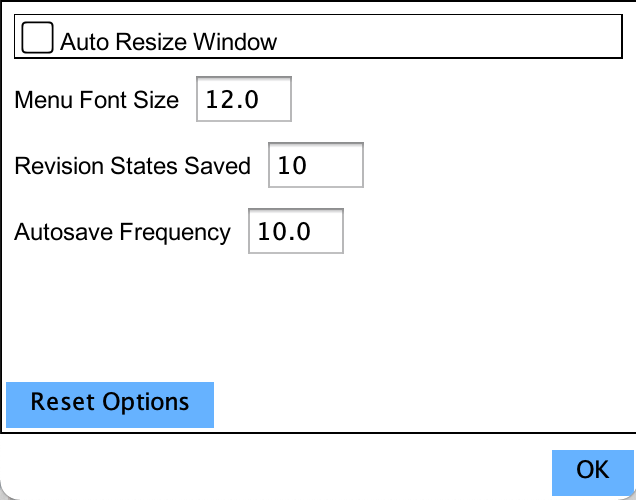
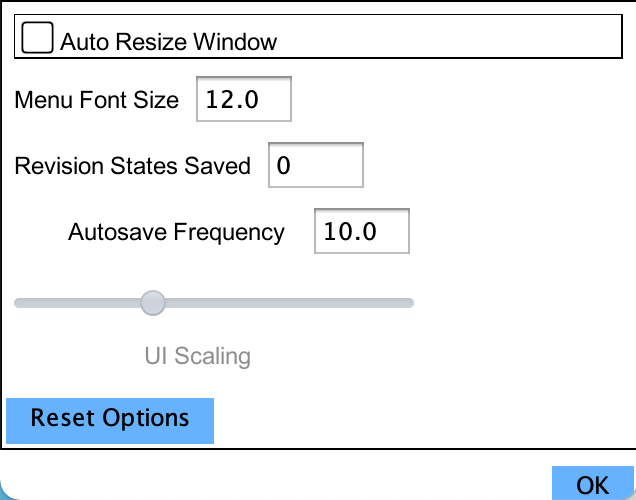
update to docs for 3.5.1 release

diff --git a/docs/readme.html b/docs/readme.html
@@ -27,7 +27,7 @@
         <!-- Static navbar -->
         <div class="navbar navbar-inverse navbar-static-top">
             <div class="container">
-                <div class="navbar-header"> <button type="button" class="navbar-toggle" data-toggle="collapse" data-target=".navbar-collapse"> <span class="icon-bar"></span> <span class="icon-bar"></span> <span class="icon-bar"></span> </button> <a class="navbar-brand" href="index.html">PolyGlot v 3.5</a> </div>
+                <div class="navbar-header"> <button type="button" class="navbar-toggle" data-toggle="collapse" data-target=".navbar-collapse"> <span class="icon-bar"></span> <span class="icon-bar"></span> <span class="icon-bar"></span> </button> <a class="navbar-brand" href="index.html">PolyGlot v 3.5.1</a> </div>
                 <div class="navbar-collapse collapse">
                     <ul class="nav navbar-nav navbar-right">
                         <li><a href="https://github.com/DraqueT/PolyGlot">GitHub Page</a><br>
@@ -49,7 +49,7 @@
             <div class="container">
                 <div class="row">
                     <div class="col-lg-10 col-lg-offset-1 centered"> <img src="assets/PolyGlot%20Logo.png" alt="PolyGlot">
-                        <h1>Version 3.5</h1>
+                        <h1>Version 3.5.1</h1>
                         <!-- POLYGLOT STUFF START -->
 
                         <table style="width:100%">
@@ -108,54 +108,21 @@
                             post them on <a href="https://github.com/DraqueT/PolyGlot/issues">PolyGlot's issues page</a>!</div>
 
                         <h1><a name="-----_ii_-----"></a>WHAT’S NEW</h1>
-                        <div align ="left"><br>Heyo, all! Welcome to version 3.5 of PolyGlot! This is a <b>massive</b> release! First, 
-                            I want to give a huge shout out to TrapinchO over on GitHub, who gave an enormous amount of help with 
-                            testing, and just has killer ideas in general! 3.5 includes a long list of upgrades and
-                            bug fixes. This also represents a significant step toward an Android release of PolyGlot, which has been 
-                            much requested and a long time coming.<br><br>
-                            
-                            Among the most exciting upgrades are the complete integration of the Zompist word generator (algorithm
-                            and original design by Mark Rosenfelder there), a complete overhaul of how graphics are painted (no
-                            more CPU fans going nuts), a revamped lexicon look (local language synonyms now displayed in the list
-                            by their conword counterparts), automatic syllable composition when generating pronunciations, and many, 
-                            <i>many</i> quality of life improvements (full list below). And that is on top of a ton of bug fixes!<br><br>
-                            
-                            Please enjoy, everyone!
+                        <div align ="left"><br>Minor release here that cleans up a few things from the last big release and adds a few 
+                            features I had wanted to include with 3.5 in the first place.<br><br>
+
+                            Enjoy, everyone!
                             <br><br>
 
                         </div>
                         NEW FEATURES:
                         <div align ="left"><ul>
-                                <li>Full integration of the Zompist Word Generator</li>
-                                <li>Automatic syllable composition in pronunciation</li>
-                                <li>Word form constructor tool added for greater ease with agglutinative languages</li>
-                                <li>PolyGlot can now import local language fonts as with conlang fonts.</li>
-                                <li>Push updates to mass autodeclension rules updated</li>
-                                <li>Delete audio recording button added to grammar section</li>
-                                <li>Packer/unpacker feature added for advanced users</li>
-                                <li>Alphabetic Order feature reworked</li>
-                                <li>Open Ticket menu item added</li>
-                                <li>Regex now supported in language filter</li>
-                                <li>Relational word classes added to PolyGlot</li>
-                                <li>Phrase Book window added - compatible with print to PDF</li>
-                                <li>Lexicon now defaults to show both Conword and local word equivalent</li>
-                                <li>PDF Chapters can now be reordered</li>
-                                <li>Text fields and dropdowns upgraded to show labels more clearly</li>
-                                <li>PolyGlot update detection now based on more stable host</li>
-                                <li>Autosave feature added - every 5 minutes (can be changed in options)</li>
-                                <li>Deprecated conjugation rules now given more helpful names</li>
-                                <li>Dropdown menus with Conlang words now have hover text and the local word appearing next to them</li>
-                                <li>Check Language upgrade - checks for ambiguities in alphabet and for unsupported characters in lexicon</li>
-                                <li>PDF printing now accepts/uses local language font</li>
-                                <li>If present, romanized forms of words will export to Excel</li>
-                                <li>Tooltips now automatically format in a way that is much nicer to look at</li>
-                                <li>Font compatibility in PDF printing significantly improved</li>
-                                <li>Reworked printing of word class values to PDF </li>
-                                <li>Upgraded combobox displays</li>
-                                <li>Dropdowns now filter as you begin to type</li>
-                                <li>BIG update to core functionality to allow for development of Android app</li>
-                                <li>Upgraded to Java 17 - Long Term Home for PolyGlot (no more upgrdes for a good bit)</li>
-                                <li>New easter egg added. :3</li>
+                                <li>Java 8 no longer needed for Excel features and PDF generation</li>
+                                <li>Revised invalid entry display in some menus</li>
+                                <li>Added ability to scale UI in Windows and Linux</li>
+                                <li>Word generator now compatible with comma delimited lists to allow for multi symbol characters</li>
+                                <li>Word generator now has visual feedback to help with input formatting</li>
+                                <li>Word generator now saves settings rather than discarding on close of window</li>
                                 <!––Secret Codes:
                                 what did you see last tuesday
                                 Who is Draque
@@ -169,29 +136,12 @@
                         BUGS FIXED:
                         <div align="left">
                             <ul>
-                                <li>Ligatures loaded initially, but failed to re-load from saved PolyGlot archive</li>
-                                <li>Broken multi-delete in conjugations menu fixed</li>
-                                <li>Graphical artifacting and "shadows" appeared sometimes in etymology window</li>
-                                <li>Broken multi-delete in conjugations menu fixed</li>
-                                <li>Excel import bugs corrected (false success report)</li>
-                                <li>Quickentry image insertion caused PolyGlot to freeze</li>
-                                <li>Quiz could make copies of the correct answer (with copies being "wrong")</li>
-                                <li>Local languge sizing failed to function properly in menus</li>
-                                <li>IPA Conversion tool converted text with HTML interspersed</li>
-                                <li>If no alphabet is defined at all, "check language" feature crashes program</li>
-                                <li>Under certain circumstances, text boxes could be mistakenly set to the conlang font</li>
-                                <li>Search menu populates font and size options from wrong place</li>
-                                <li>Hitting the filter button while is already applied did nothing</li>
-                                <li>Deletion of top level etymological parent caused unhandled exception</li>
-                                <li>Excel export applied conjugation transforms without regard to rules</li>
-                                <li>Excel export did not properly set conlang font on conjugated wordform cells</li>
-                                <li>Excel export sometimes printed empty tabs</li>
-                                <li>Deleting an internal etymological parent resized elements of the etymology window</li>
-                                <li>If you had too many word classes, it would break the autodeclension setup menu</li>
-                                <li>Deleting an entry in the phonemic orthography menu would also delete any entries with the same values</li>
-                                <li>Elements of the conjugation menu were failing to render in the appropriate font</li>
-                                <li>The grammar chapter section could become persistently wonky if multiple chapters without names were added in a row</li>
-                                <li>Fixed menus that could display user text but which did not use local language font (possible tofu characters)</li>
+                                <li>Tooltips were severely broken on Windows/Linux, not functioning at all</li>
+                                <li>Under certain circumstances, add part of speech button could become temporarily disabled</li>
+                                <li>UI scaling in HD environments was broken</li>
+                                <li>Part of Speech mandatory can no longer be set if none are defined</li>
+                                <li>Import menu was not static</li>
+                                <li>Error message occasionally/popped on startup for null ConWord value</li>
                             </ul>
                         </div>
 
@@ -200,14 +150,14 @@
                         <h1>INSTALLATION</h1><br>
                         <div align ="left">As of version 3.0, the installation of PolyGlot has become mostly automated. Simply 
                             download the appropriate installer for your operating system (Windows: exe, Linux: deb, macOS:dmg) and open 
-                            to install! PolyGlot no longer has a frontend, and to run the base program, there is no need to install 
-                            Java at all (although for some features, a java runtime may be required).<br><br>
+                            to install!<br><br>
                             
                             <i>Windows Note</i>: Windows will complain bitterly about PolyGlot not being properly registered with Microsoft. 
                             It is safe to install, but registration costs money and PolyGlot is free.<br><br>
                         
-                            <i>macOS Note</i>: On the initial run, you will have to right click th Application from Finder, select "open" and grant it permission to run, 
-                            despite not being registered with Apple. It is safe to run, but registration costs money and PolyGlot is free.
+                            <i>macOS Note</i>: On the initial run, you will have to right click th Application from Finder, select "open" and grant it permission to run. It is safe to run, but registration costs money and PolyGlot is free.<br><br>
+                            
+                            <i>Linux Note:</i>: Depending on screen resolution, you may have to tweak the UI scaling setting under options for the display to render at an appropriate size.
                         </div>
                         <br><br>
 
@@ -1128,7 +1078,11 @@
                             Note that autosaves will not affect the revision points feature in PolyGlot that are typically created each save.<br><br>
 
                             The <b>Reset Options</b> button allows you to reset all option data within PolyGlot. This <i>includes</i> data which is
-                            not typically visible, such as window position, window sizes, and prior files opened.
+                            not typically visible, such as window position, window sizes, and prior files opened.<br><br>
+                            
+                            <b>UI Scaling</b> controls the size of PolyGlot's overall screens. This can be useful as a setting if you are having trouble
+                            seeing the menus or if your OS has improperly scaled it for your screen resolution. Default value is a scale of 2, and can be
+                            set from 1 to 4.
                         </div>
 
 

diff --git a/docs/index.html b/docs/index.html
@@ -22,9 +22,9 @@
 
 
         <ul>
-          <li><a href="https://github.com/DraqueT/PolyGlot/releases/download/3.5/PolyGlot-Ins-Win.exe">Download<strong>for Windows</strong></a></li>
-          <li><a href="https://github.com/DraqueT/PolyGlot/releases/download/3.5/PolyGlot-Ins-Osx.dmg">Download<strong>for macOS</strong></a></li>
-          <li><a href="https://github.com/DraqueT/PolyGlot/releases/download/3.5/PolyGlot-Ins-Lin.deb">Download<strong>for Linux</strong></a></li>
+          <li><a href="https://github.com/DraqueT/PolyGlot/releases/download/3.5.1/PolyGlot-Ins-Win.exe">Download<strong>for Windows</strong></a></li>
+          <li><a href="https://github.com/DraqueT/PolyGlot/releases/download/3.5.1/PolyGlot-Ins-Osx.dmg">Download<strong>for macOS</strong></a></li>
+          <li><a href="https://github.com/DraqueT/PolyGlot/releases/download/3.5.1/PolyGlot-Ins-Lin.deb">Download<strong>for Linux</strong></a></li>
 
           <li><a title="BETA BUILD! USE WITH CARE!" href="https://drive.google.com/file/d/1Dbd4cpPUGGZ5_zVuzllXdwrWc77QEL93/view?usp=sharing">Download<strong>Newest Windows BETA</strong></a></li>
           <li><a title="BETA BUILD! USE WITH CARE!" href="https://drive.google.com/open?id=19hcAoUWZTnxS2YB-m93jAkmfi_SdESih">Download<strong>Newest macOS BETA</strong></a></li>
